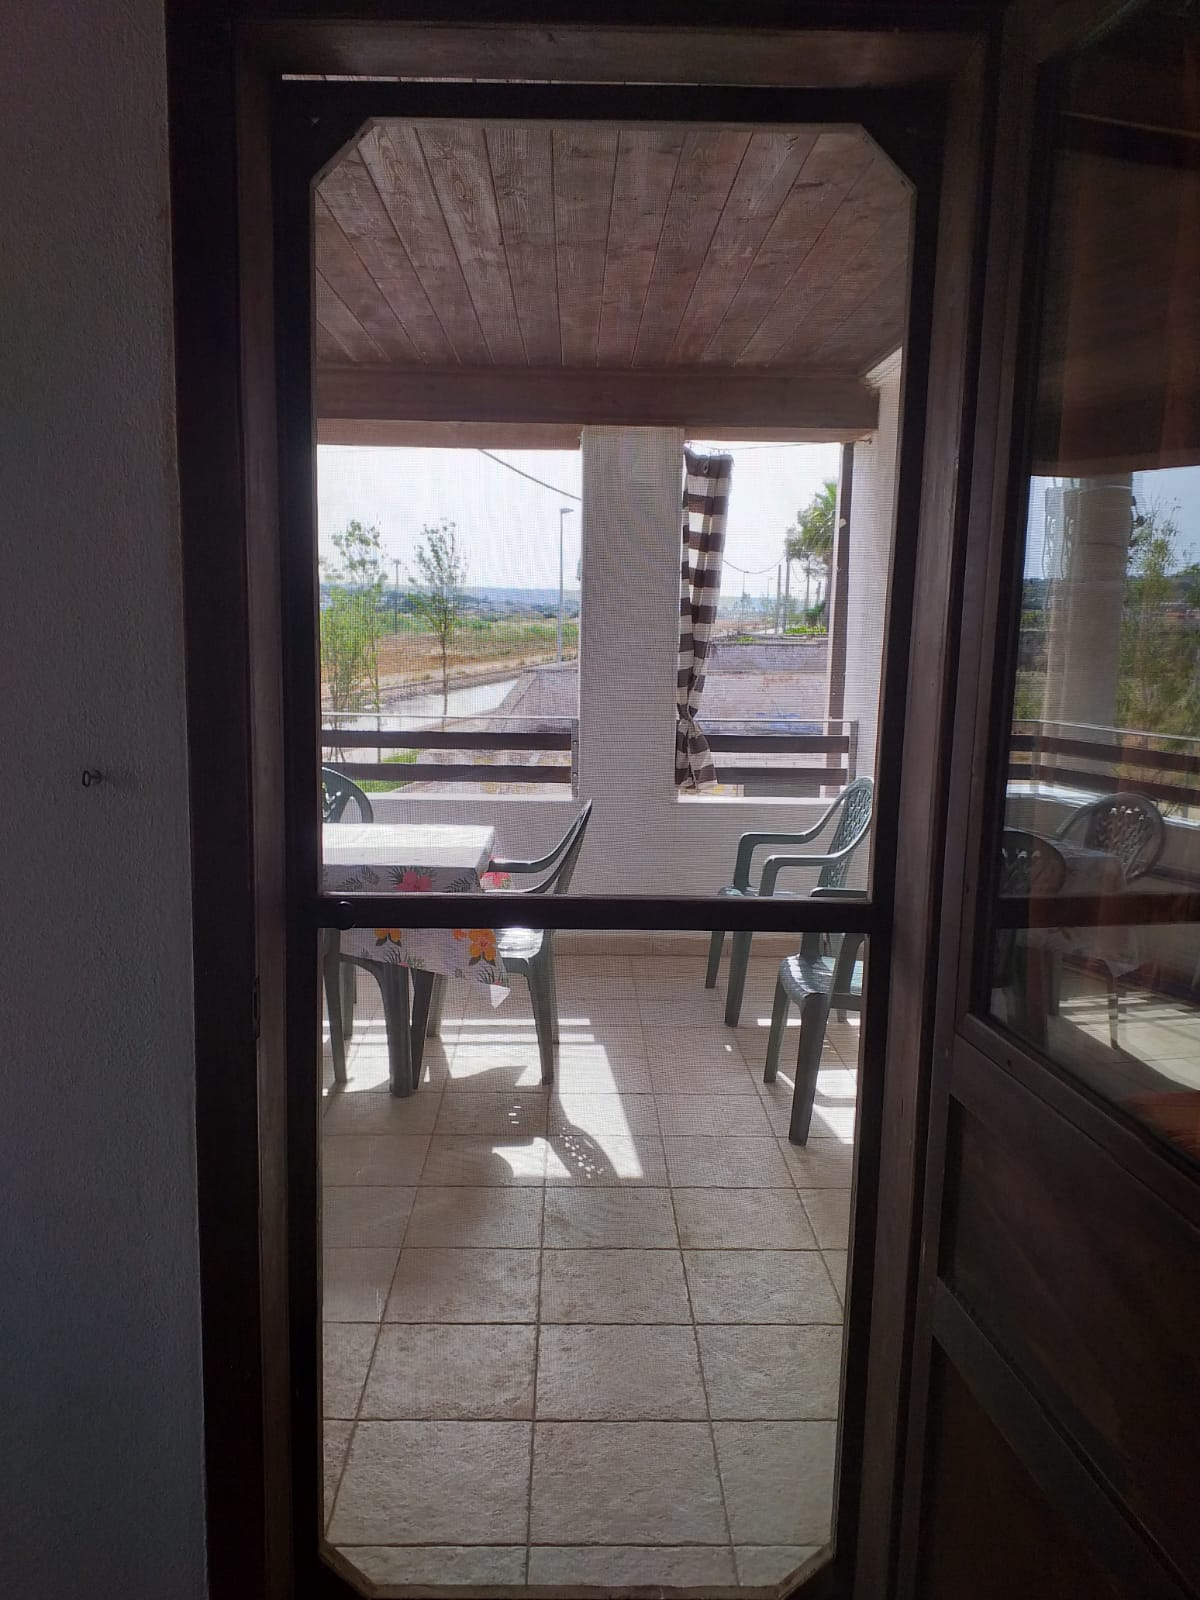
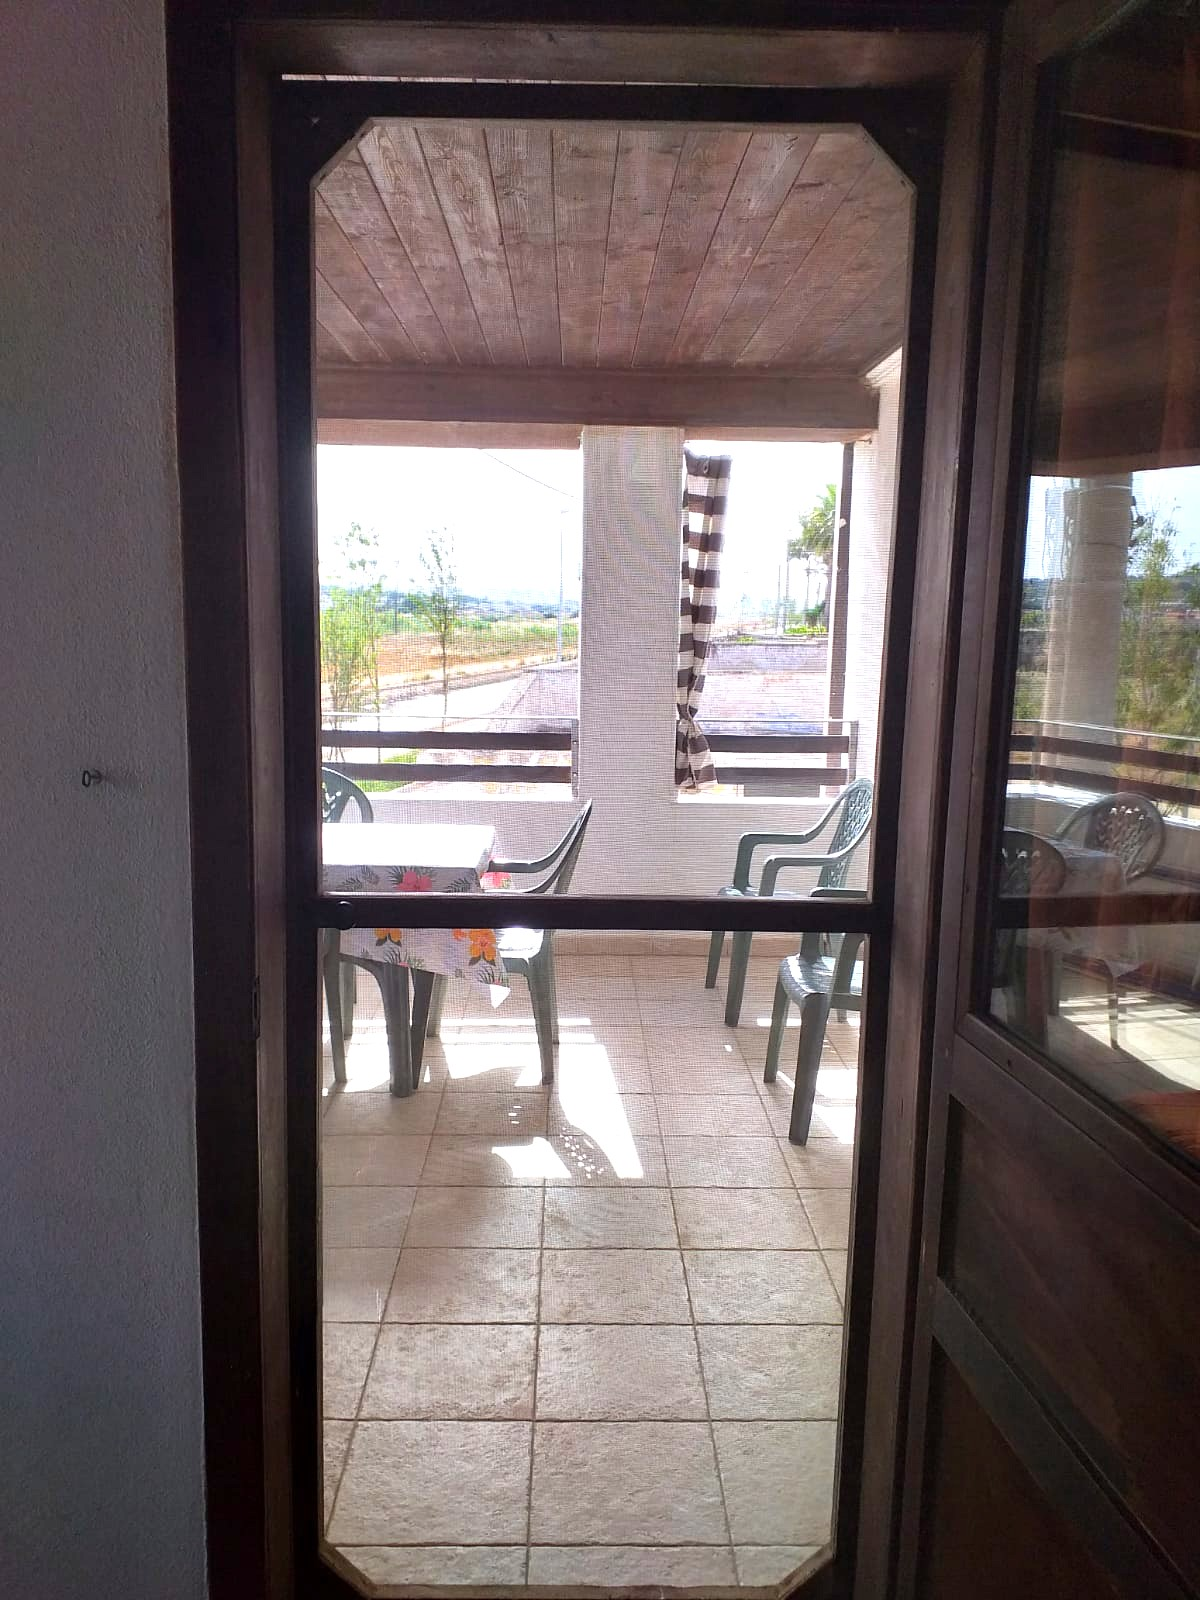
feat

diff --git a/docs/casa-bellavista-1.html b/docs/casa-bellavista-1.html
@@ -345,15 +345,6 @@ height="0" width="0" style="display:none;visibility:hidden"></iframe></noscript>
 <h1>🏠 Casa Bella Vista 1 - Torre Pali Salento</h1>
 <p class="subtitle">Appartamento a 100m dalla spiaggia • 5 posti letto • parcheggio gratuito</p>
 </header>
-<section aria-label="Azioni rapide" style="margin: 14px 0 26px 0; padding: 16px; border-radius: 12px; background: #f7fbff; border: 1px solid #dbe7f5; box-shadow: 0 2px 10px rgba(34,87,122,0.06); text-align:center;">
-  <p style="margin:0 0 10px 0; color:#22577a; font-weight:600; font-size:1.02em;">Prenota in modo semplice e veloce</p>
-  <div style="display:flex; gap:10px; justify-content:center; flex-wrap:wrap; margin-bottom:10px;">
-    <a href="https://wa.me/[phone redacted]?text=Ciao!%20Sono%20interessato%20alla%20Casa%20Bella%20Vista%201" class="btn" onclick="gtag('event','click_whatsapp'); gtag_report_whatsapp_conversion()" style="min-width:180px;">📱 WhatsApp</a>
-    <a href="tel:[phone redacted]" class="btn" onclick="gtag('event','click_telefono'); gtag_report_conversion()" style="min-width:180px;">📞 Chiama ora</a>
-    <a href="#calendar" class="btn btn-secondary" style="min-width:180px;">📅 Verifica disponibilità</a>
-  </div>
-  <p style="margin:0; color:#22577a; font-size:0.96em;">Prezzi indicativi: <strong>da 350€ a 900€ / settimana</strong> • Risposta media entro 1 ora</p>
-</section>
 <div class="property">
 <div class="gallery-filters">
 	<button class="filter-btn active" data-filter="all">Tutte</button>